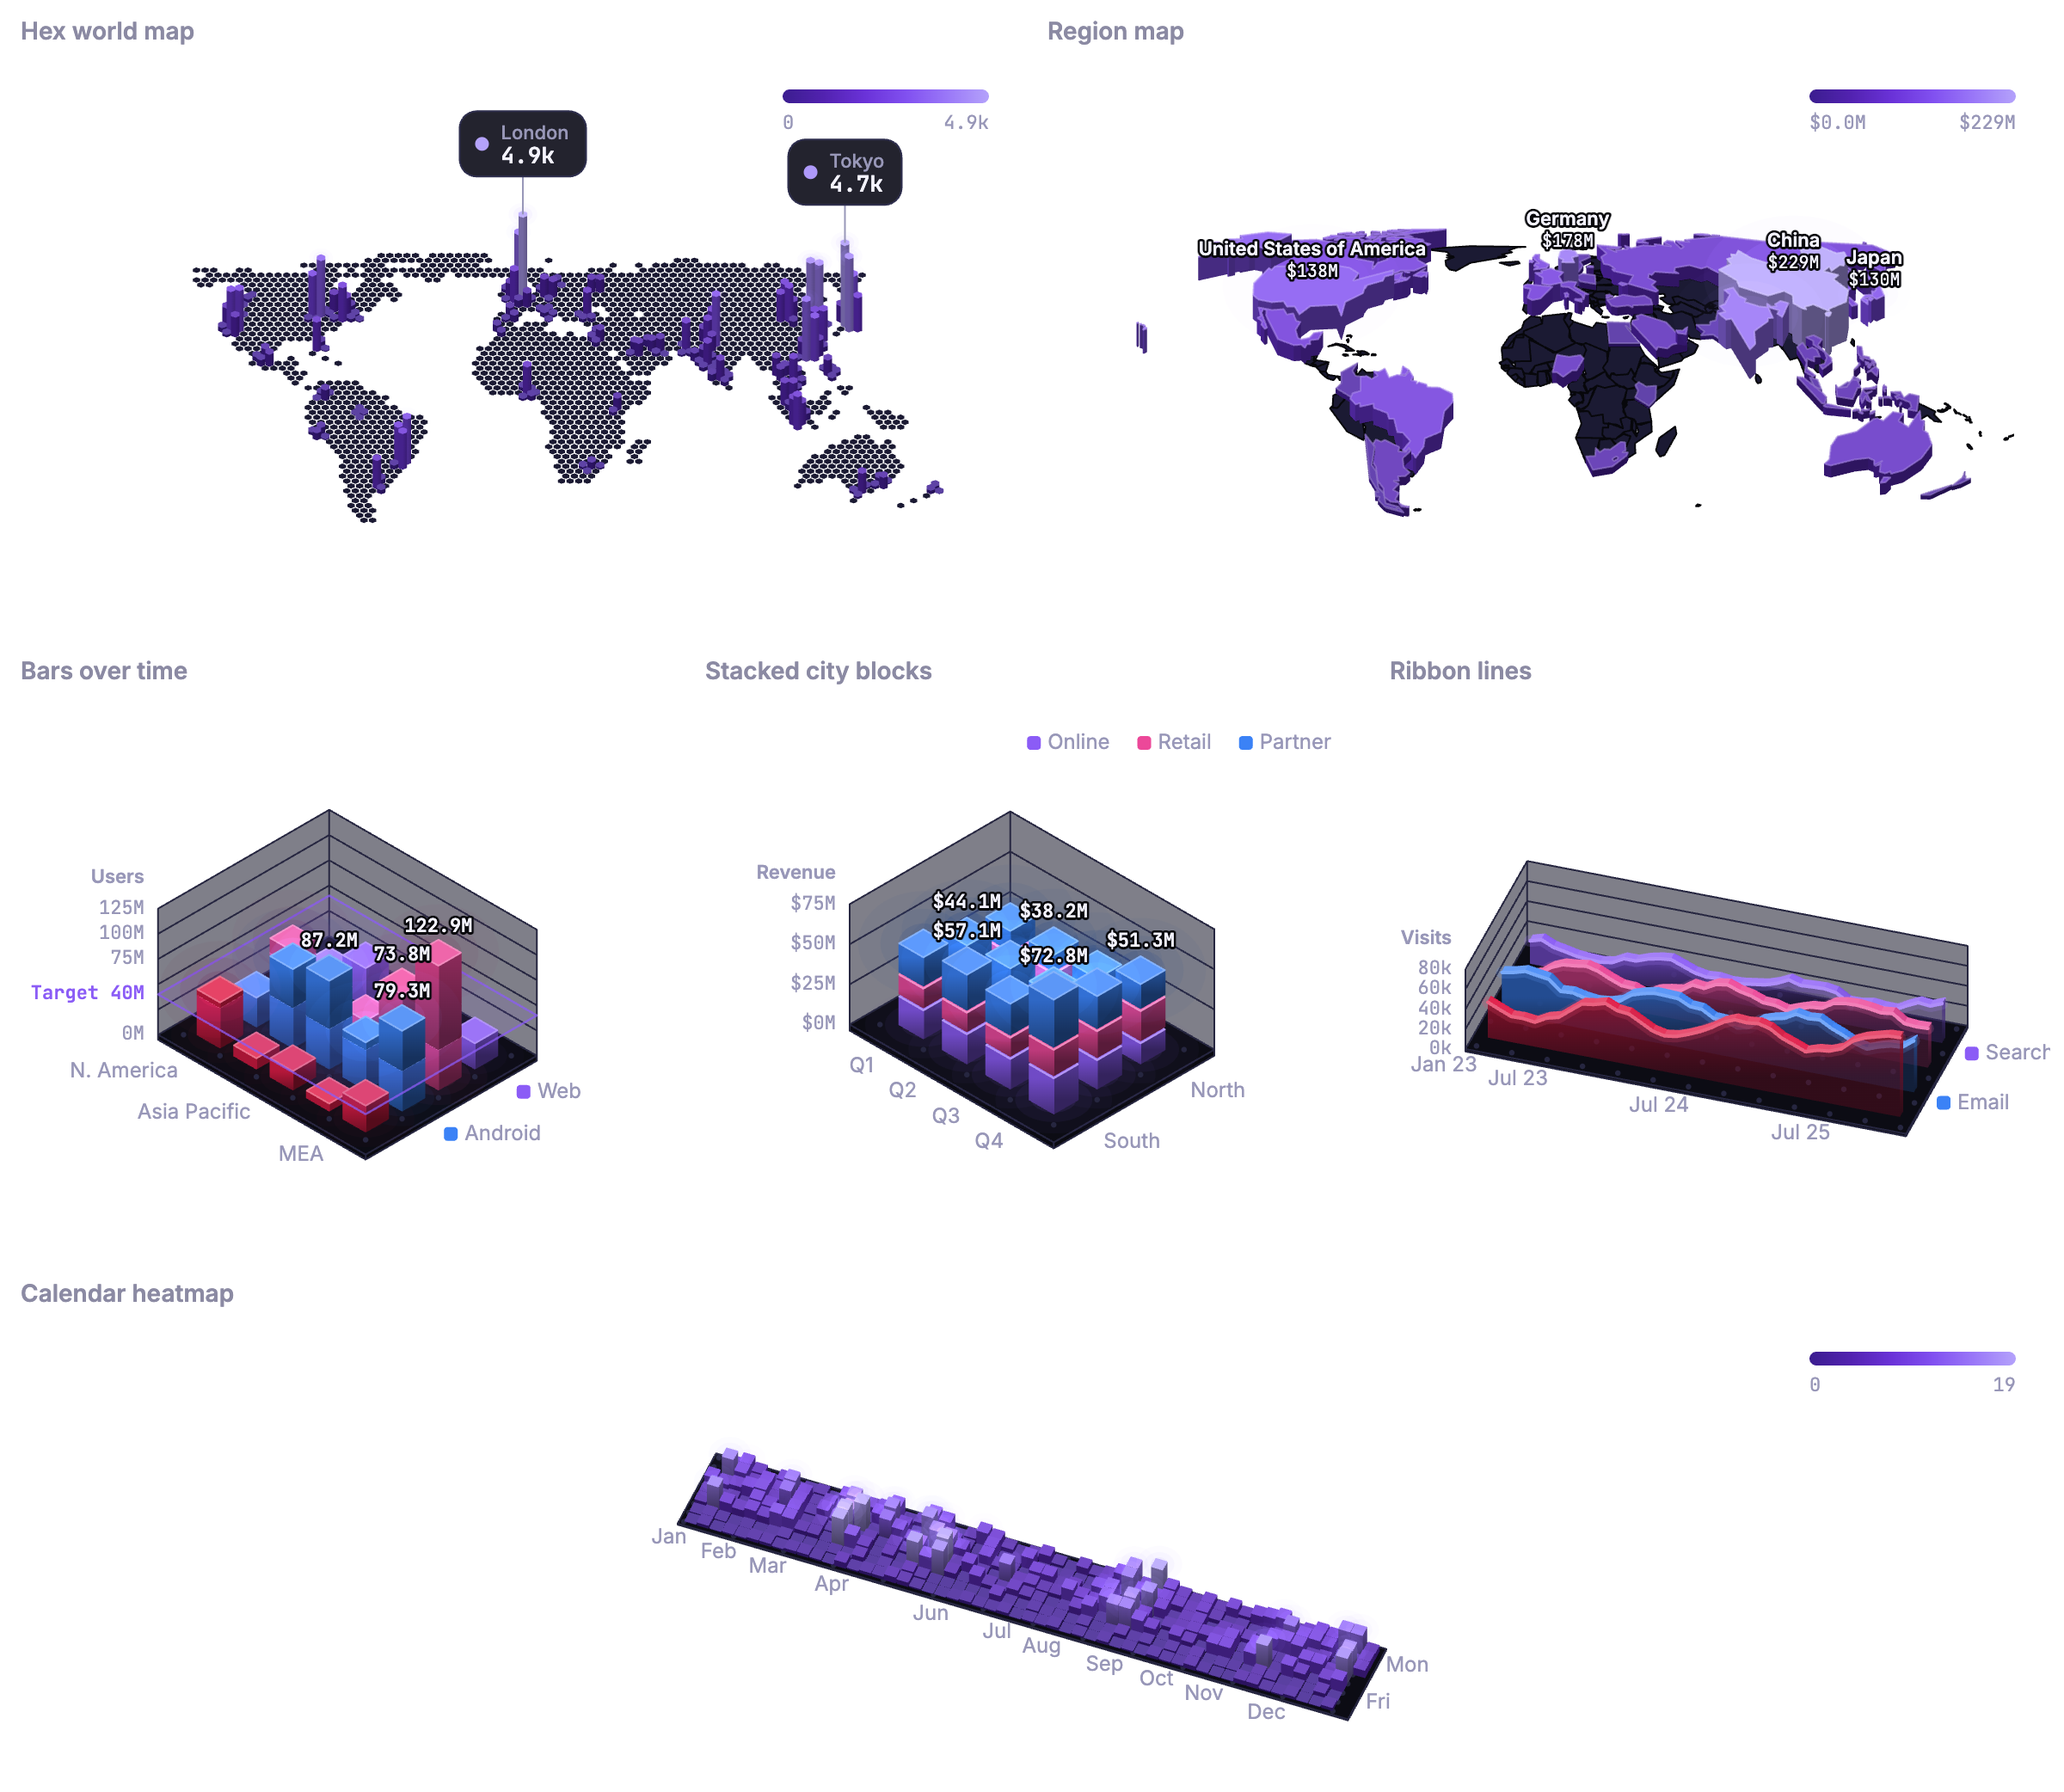
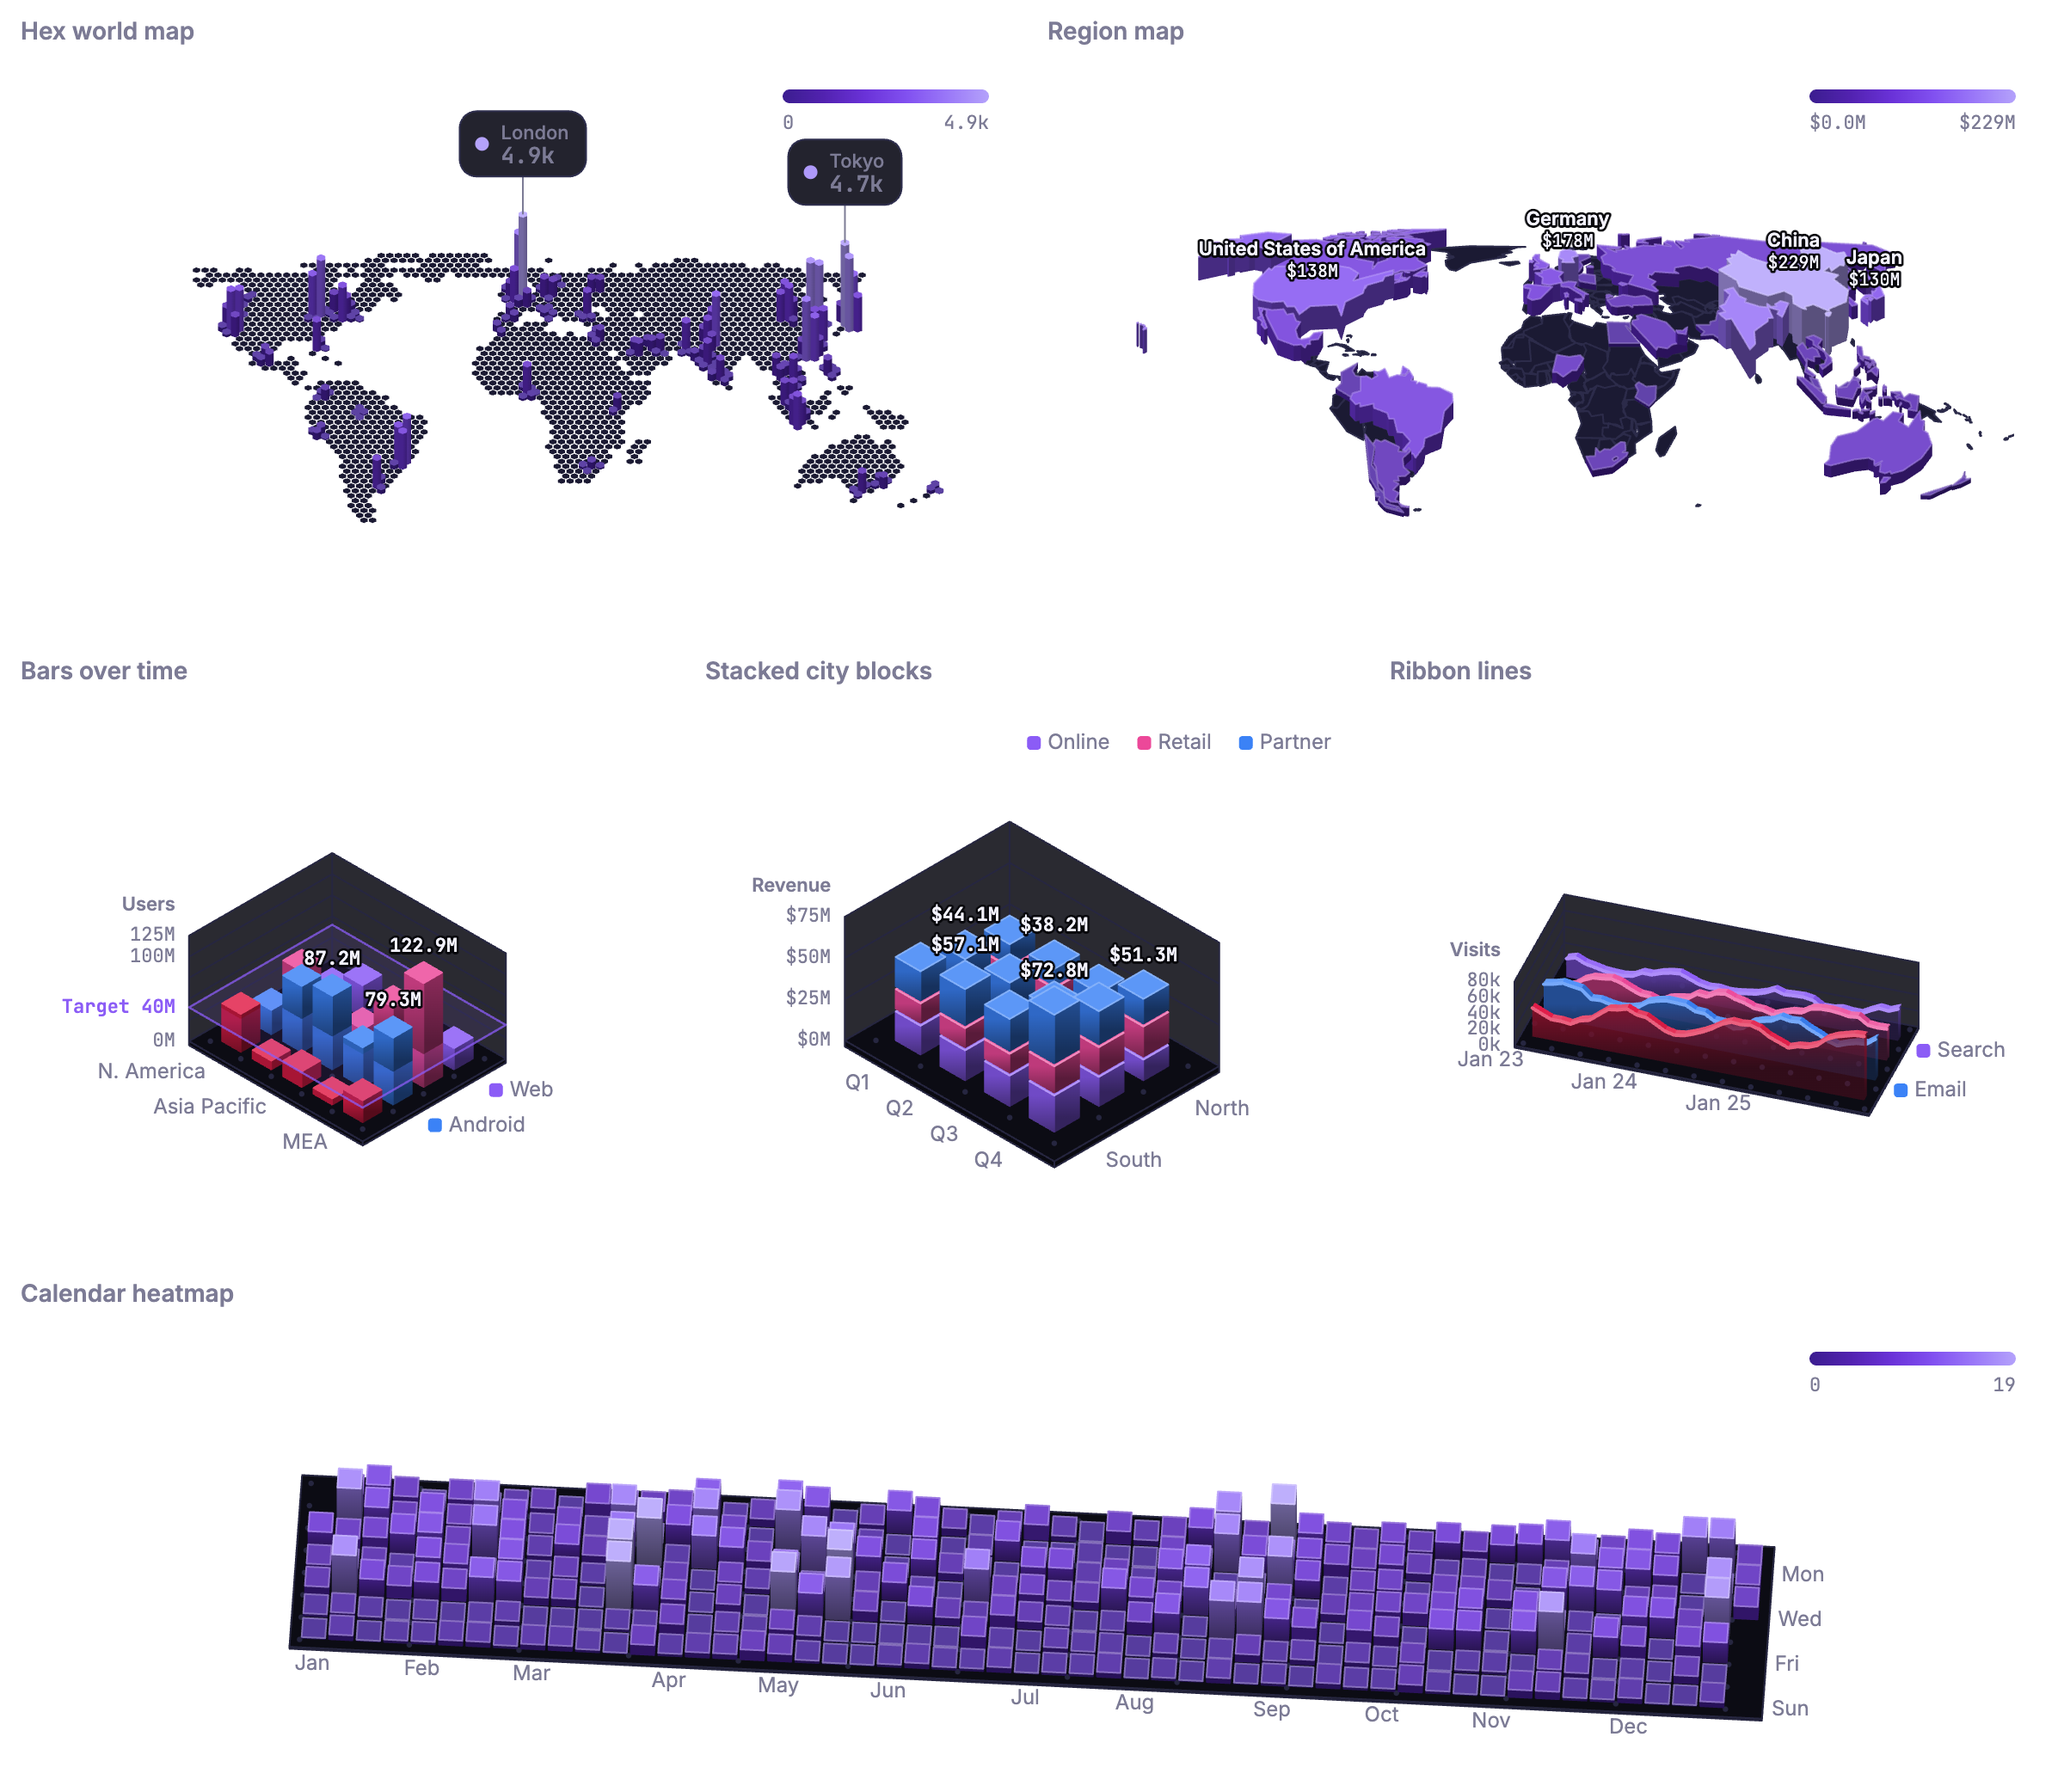
Polish the transparent README preview
Walls now use the floor's colour (nearly opaque), so walls and platform
match on any page background instead of the walls picking up whatever
is behind them. New markText / markHalo theme tokens style labels drawn
on marks separately from axis text. Grid charts reserve the width of
their longest category label when fitting, so legends no longer clip.

The preview uses its own theme: no additive glow or floor pools (they
turn into solid blobs on a transparent image), mid-grey page text that
reads on GitHub light and dark, light on-mark labels, visible region
borders, and a near face-on calendar that spans the full width.

diff --git a/examples/showcase.html b/examples/showcase.html
@@ -16,7 +16,32 @@
   </head>
   <body>
     <script type="module">
+      import { registerTheme } from '../src/index.js';
       import { demos } from './demos.js';
+
+      // The preview is a transparent PNG shown on GitHub's light and dark
+      // backgrounds, so: no additive glow (it turns into solid blobs with
+      // nothing behind it) and mid-grey page text that reads on both.
+      const INK = '#7c7b95';
+      registerTheme('preview', {
+        extends: 'midnight',
+        glow: 0,
+        pool: 0,
+        text: INK,
+        textMuted: INK,
+        // Labels on marks sit on the chart's own dark surfaces: keep them light.
+        markText: '#f4f3ff',
+        markHalo: '#07070b',
+      });
+
+      // Per-chart tweaks for the preview.
+      const previewOptions = {
+        map: { arcs: null },
+        // Visible borders: the default is the (now transparent) page colour.
+        regions: { arcs: null, borderColor: '#2c2b4a' },
+        // Nearly face-on so the year runs across the full width.
+        calendar: { camera: { yaw: 0.06, pitch: 0.95 } },
+      };
 
       const W = 1200;
       const PAD = 8;
@@ -46,9 +71,7 @@
         const el = Object.assign(document.createElement('div'), { className: 'tile' });
         Object.assign(el.style, { left: `${x}px`, top: `${top}px`, width: `${w}px`, height: `${h}px` });
         document.body.append(el);
-        // The README preview leaves out the maps' arcs.
-        const extra = id === 'map' || id === 'regions' ? { arcs: null } : {};
-        return demos[id].create(el, { theme: 'midnight', ...extra }).chart;
+        return demos[id].create(el, { theme: 'preview', ...previewOptions[id] }).chart;
       });
 
       // Advance every chart to the end of its timeline with all entrance
@@ -91,7 +114,7 @@
           ctx.textBaseline = 'middle';
           ctx.textAlign = 'left';
           ctx.font = '600 14px Inter, sans-serif';
-          ctx.fillStyle = '#8b8aa3';
+          ctx.fillStyle = INK;
           ctx.fillText(demos[id].title, x + 4, top - LABEL / 2);
           ctx.drawImage(chart.renderer.canvas, x, top, w, h);
           if (chart.overlay) ctx.drawImage(chart.overlay.canvas, x, top, w, h);

diff --git a/src/core/grid-chart.js b/src/core/grid-chart.js
@@ -249,7 +249,9 @@ export class GridChart extends Chart {
 
   draw() {
     const { renderer: R, theme } = this;
-    this.fitScene(this.sceneBounds(), { top: 64, right: 28, bottom: 24, left: 28 });
+    // Category labels hang off the floor edges, so reserve their width.
+    const side = 16 + this.labelWidth();
+    this.fitScene(this.sceneBounds(), { top: 64, right: side, bottom: 24, left: side });
     this.drawFloor();
     this.drawWalls();
     this.drawLabels();
@@ -265,13 +267,30 @@ export class GridChart extends Chart {
   // and the ceiling of the tallest possible mark.
   sceneBounds() {
     const [hx, hy] = this.floorExtent();
-    const lx = hx + 1.1;
-    const ly = hy + 1.1;
+    const lx = hx + 0.5;
+    const ly = hy + 0.5;
     const top = this.maxHeight + 0.2;
     const pts = [];
     for (const [x, y] of [[-lx, -ly], [lx, -ly], [lx, ly], [-lx, ly]]) pts.push([x, y, -0.4]);
     for (const [x, y] of [[-hx, -hy], [hx, -hy], [hx, hy], [-hx, hy]]) pts.push([x, y, top]);
     return pts;
+  }
+
+  // Widest category label in pixels (cached per data set), plus the swatch.
+  labelWidth() {
+    if (this._labelWidthFor === this.frames) return this._labelWidth;
+    const R = this.renderer;
+    let w = 0;
+    this.xs.forEach((v, i) => {
+      const label = this.tickLabel('x', v, i);
+      if (label != null) w = Math.max(w, R.measure(label, 12, 600));
+    });
+    this.ys.forEach((v, j) => {
+      const label = this.tickLabel('y', v, j);
+      if (label != null) w = Math.max(w, R.measure(label, 12, 600) + (this.colorByRow ? 12 : 0));
+    });
+    this._labelWidthFor = this.frames;
+    return (this._labelWidth = w);
   }
 
   drawMarks() {}

diff --git a/src/core/color.js b/src/core/color.js
@@ -39,6 +39,8 @@ const base = {
   glow: 0,
   // Coloured light pooled on the floor beneath marks (0 = none).
   pool: 0.25,
+  // Labels drawn on top of marks (value labels, region names) use markText
+  // with a markHalo outline; both default to text / surface.
   floorThickness: 0.12,
   gridStyle: 'lines', // 'lines' | 'dots' | 'none'
   scale: 'violet',
@@ -51,7 +53,7 @@ export const themes = {
     floor: '#0c0c14',
     grid: '#262640',
     land: '#1b1a33',
-    wall: 'rgba(22, 22, 40, 0.55)',
+    wall: 'rgba(12, 12, 20, 0.88)', // the floor's colour, so walls and floor match on any page
     highlight: '#17172b',
     text: '#f4f3ff',
     textMuted: '#9897b8',
@@ -72,7 +74,7 @@ export const themes = {
     floor: '#1b1b24',
     grid: '#2b2b38',
     land: '#2a2a3a',
-    wall: 'rgba(34, 34, 46, 0.6)',
+    wall: 'rgba(27, 27, 36, 0.88)',
     highlight: '#262636',
     text: '#f4f4f8',
     textMuted: '#a3a3b8',

diff --git a/src/charts/IsoRegionMap.js b/src/charts/IsoRegionMap.js
@@ -370,8 +370,8 @@ export class IsoRegionMap extends GeoChart {
       if (placed.some((q) => box.l < q.r && box.r > q.l && box.t < q.b && box.b > q.t)) continue;
       placed.push(box);
       R.ctx.globalAlpha = this.hovered && item !== this.hovered ? 1 - 0.5 * this.focus.value : 1;
-      R.text(name, p.x, p.y - 21, { color: theme.text, size: 11, weight: 600, halo: theme.surface });
-      R.text(this.format(item.value), p.x, p.y - 8, { color: theme.text, size: 10, mono: true, halo: theme.surface });
+      R.text(name, p.x, p.y - 21, { color: theme.markText ?? theme.text, size: 11, weight: 600, halo: theme.markHalo ?? theme.surface });
+      R.text(this.format(item.value), p.x, p.y - 8, { color: theme.markText ?? theme.text, size: 10, mono: true, halo: theme.markHalo ?? theme.surface });
     }
     R.ctx.globalAlpha = 1;
   }

diff --git a/src/charts/IsoBarChart.js b/src/charts/IsoBarChart.js
@@ -124,7 +124,7 @@ export class IsoBarChart extends GridChart {
       if (placed.some((q) => box.l < q.r && box.r > q.l && box.t < q.b && box.b > q.t)) continue;
       placed.push(box);
       R.ctx.globalAlpha = 1 - 0.6 * this.dimFor(cell);
-      R.text(text, p.x, p.y - 15, { color: theme.text, size: 11, weight: 600, mono: true, halo: theme.surface });
+      R.text(text, p.x, p.y - 15, { color: theme.markText ?? theme.text, size: 11, weight: 600, mono: true, halo: theme.markHalo ?? theme.surface });
     }
     R.ctx.globalAlpha = 1;
   }
